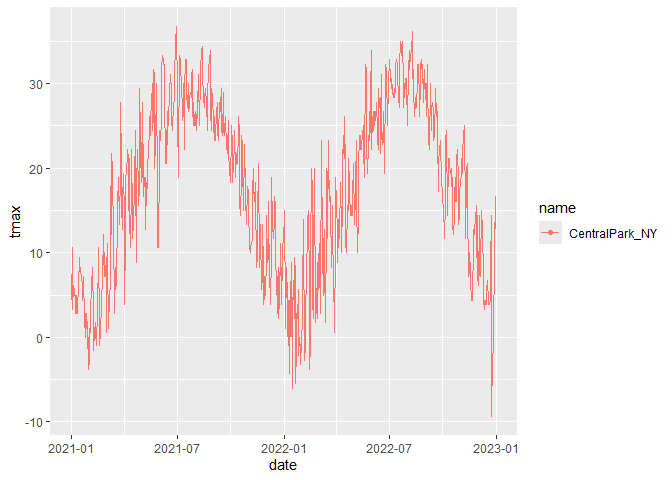
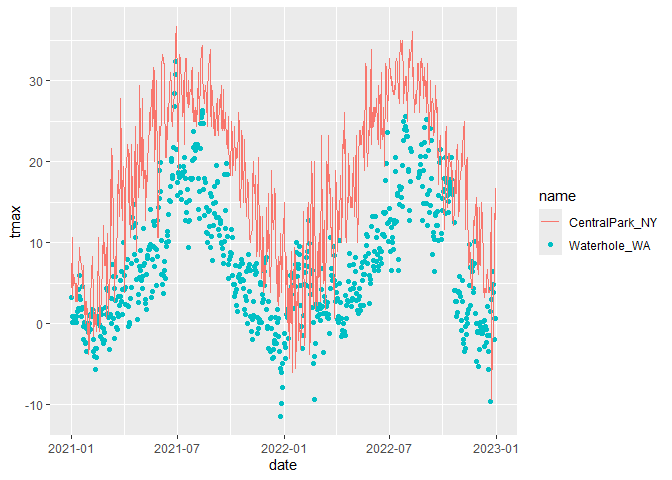
pathcwork

diff --git a/viz_2.md b/viz_2.md
@@ -542,13 +542,72 @@ central_park =
   weather_df %>% 
   filter(name == "CentralPark_NY")
 
-waikiki = 
+waterhole = 
   weather_df %>% 
-  filter(name == "Waikiki_HA")
+  filter(name == "Waterhole_WA")
 
-ggplot(data = waikiki, aes(x = date, y = tmax, color = name)) +
+ggplot(data = waterhole, aes(x = date, y = tmax, color = name)) +
   geom_point() +
   geom_line(data = central_park)
 ```
 
+    ## Warning: Removed 16 rows containing missing values or values outside the scale range
+    ## (`geom_point()`).
+
 ![](viz_2_files/figure-gfm/unnamed-chunk-10-1.png)<!-- -->
+
+## ‘patchwork’
+
+faceting
+
+``` r
+weather_df %>% 
+  ggplot(aes(x = tmin, fill = name)) + 
+  geom_density(alpha = .5) + 
+  facet_grid(. ~ name)
+```
+
+    ## Warning: Removed 17 rows containing non-finite outside the scale range
+    ## (`stat_density()`).
+
+![](viz_2_files/figure-gfm/unnamed-chunk-11-1.png)<!-- -->
+
+when you want multipanel plots but cannot facet?
+
+``` r
+tmax_tmin_plot = 
+weather_df %>%
+  ggplot(aes(x = tmin, y = tmax, color = name)) + 
+  geom_point(alpha = .5) +
+  theme(legend.position = "none")
+
+percp_dens_plot = 
+  weather_df %>%
+  filter(prcp > 0) %>%
+  ggplot(aes(x = prcp, fill = name)) +
+  geom_density(alpha = .5)
+
+tmax_date_plot = 
+  weather_df %>%
+  ggplot(aes(x = date, y = tmax, color = name)) + 
+  geom_point() + 
+  geom_smooth(se = FALSE) + 
+  theme(legend.position = "none")
+
+
+#to put the figures side by side / top & bottom,
+
+(tmax_tmin_plot + percp_dens_plot) / tmax_date_plot 
+```
+
+    ## Warning: Removed 17 rows containing missing values or values outside the scale range
+    ## (`geom_point()`).
+
+    ## `geom_smooth()` using method = 'loess' and formula = 'y ~ x'
+
+    ## Warning: Removed 17 rows containing non-finite outside the scale range
+    ## (`stat_smooth()`).
+    ## Removed 17 rows containing missing values or values outside the scale range
+    ## (`geom_point()`).
+
+![](viz_2_files/figure-gfm/unnamed-chunk-12-1.png)<!-- -->
